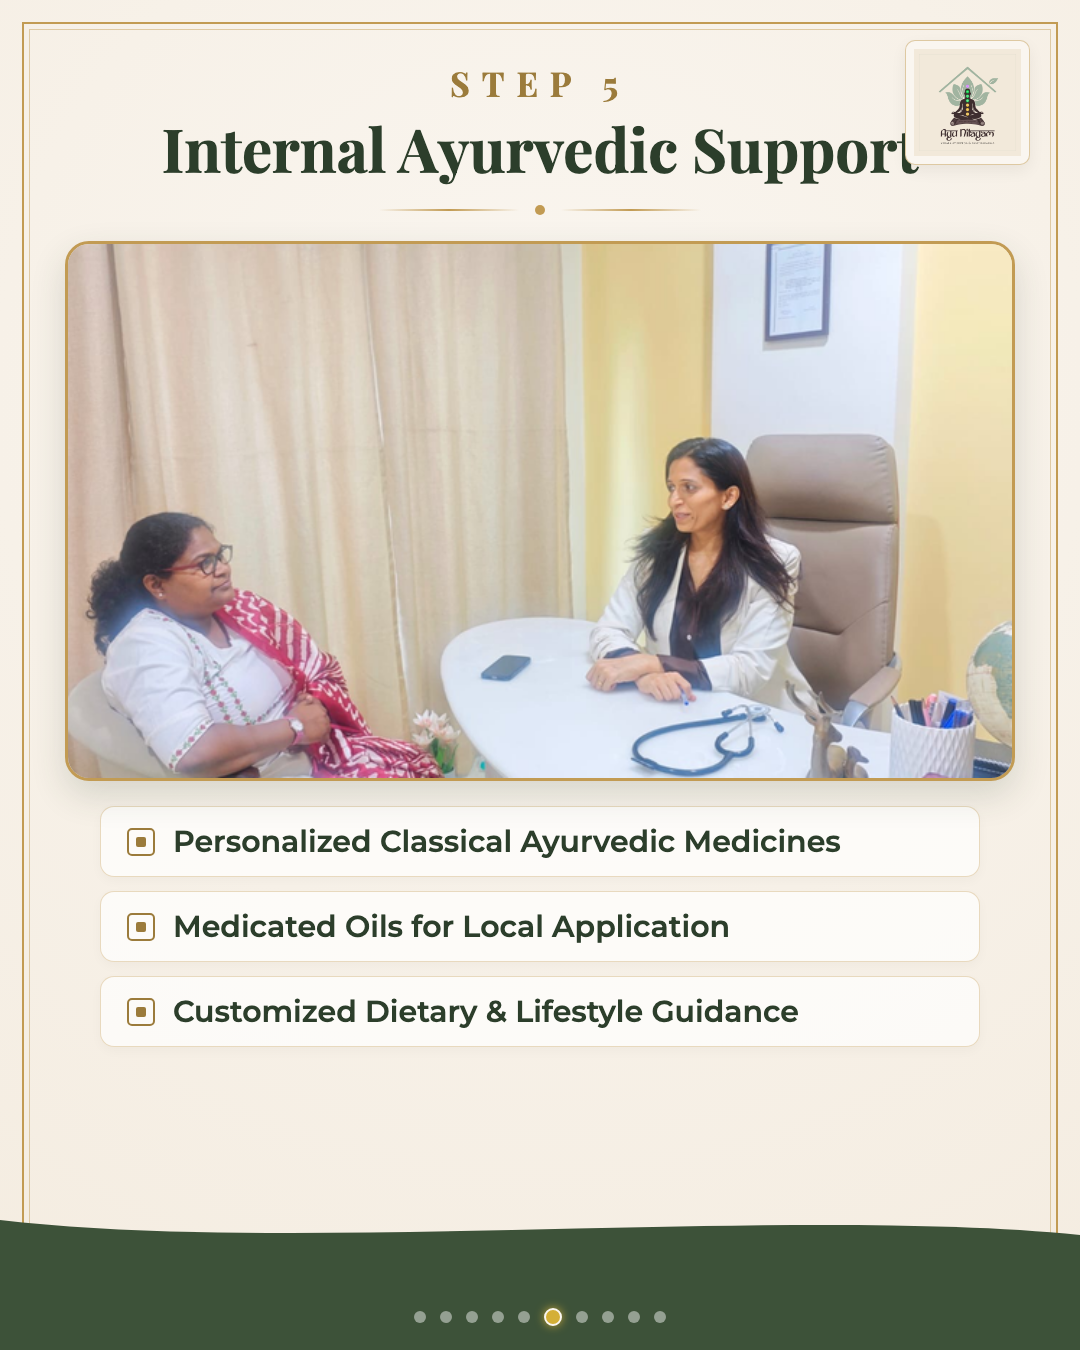
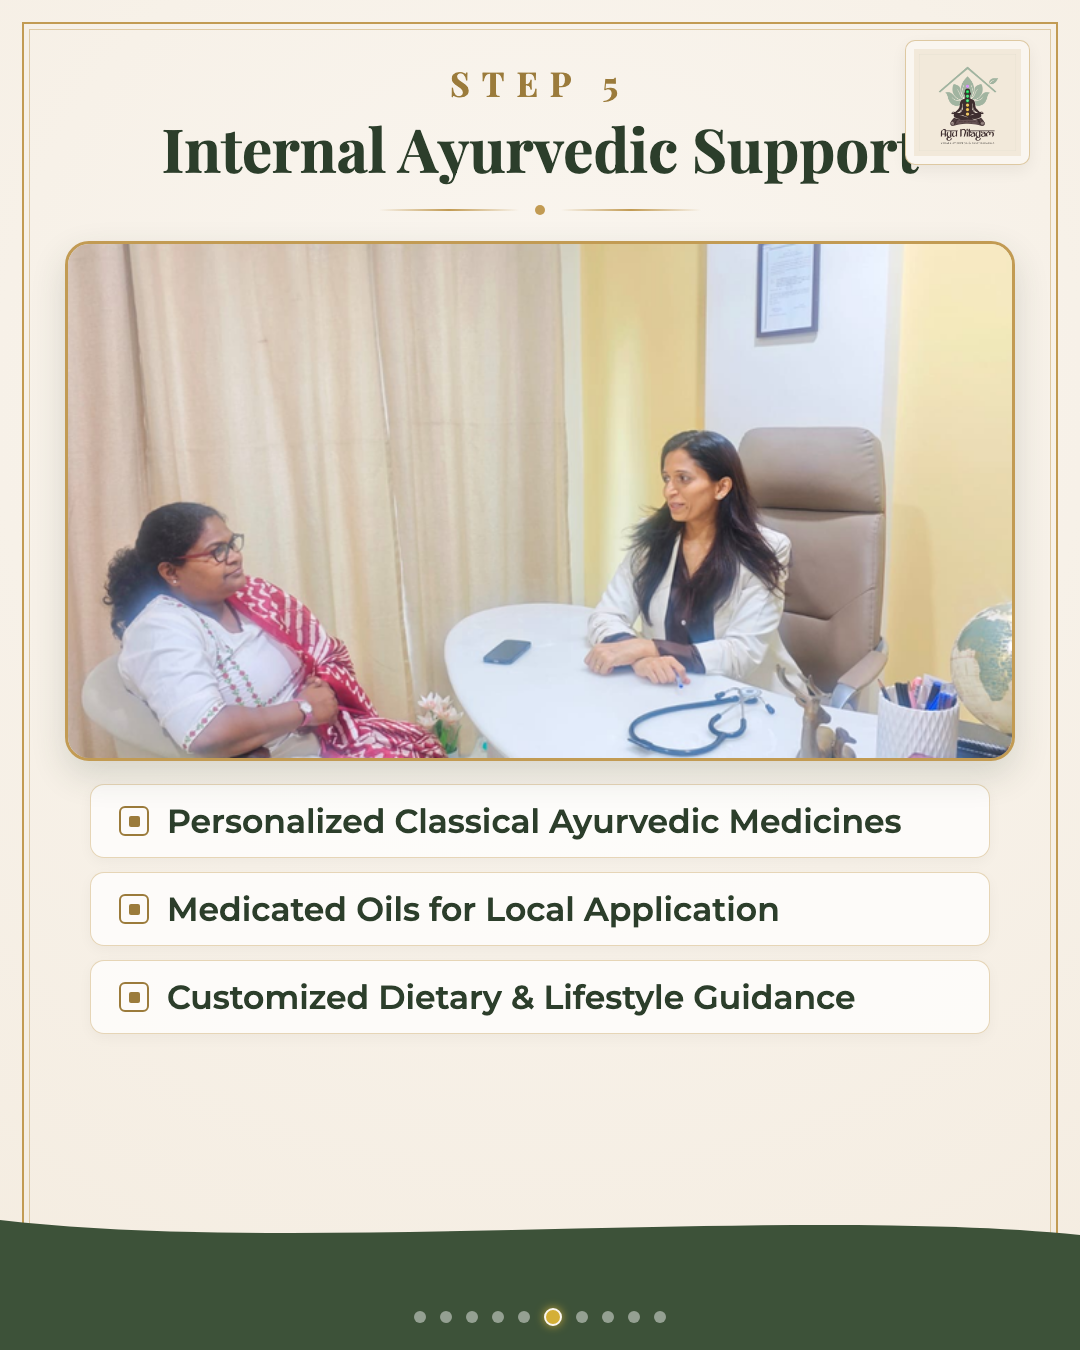
Increase description and rectangular box text sizes across Slides 1 to 8

Changed region(s): [[0.0611, 0.1867, 0.9472, 0.7778]]

diff --git a/html/slides.html b/html/slides.html
@@ -179,7 +179,7 @@
     border-radius: 24px;
     overflow: hidden;
     box-shadow: 0 14px 35px rgba(44, 62, 43, 0.16);
-    margin: 10px 0 20px 0;
+    margin: 10px 0 18px 0;
     background-color: #EFE8DC;
     display: flex;
     justify-content: center;
@@ -188,10 +188,10 @@
   }
 
   .photo-frame.photo-height-lg {
-    height: 540px;
+    height: 520px;
   }
   .photo-frame.photo-height-xl {
-    height: 580px;
+    height: 560px;
   }
 
   .photo-frame img {
@@ -201,13 +201,13 @@
     display: block;
   }
 
-  /* Content Cards & List Items */
+  /* Content Cards & List Items (INCREASED FONT SIZE & PADDING) */
   .bullet-list {
     display: flex;
     flex-direction: column;
     gap: 14px;
     width: 100%;
-    max-width: 880px;
+    max-width: 900px;
     margin-top: 5px;
   }
 
@@ -215,20 +215,20 @@
     display: flex;
     align-items: center;
     gap: 18px;
-    font-size: 30px;
+    font-size: 33px; /* INCREASED LARGER TEXT SIZE */
     color: #2C3E2B;
     font-weight: 600;
-    background: rgba(255, 255, 255, 0.7);
-    padding: 16px 26px;
+    background: rgba(255, 255, 255, 0.75);
+    padding: 16px 28px;
     border-radius: 14px;
-    border: 1.5px solid rgba(194, 155, 83, 0.35);
-    box-shadow: 0 4px 12px rgba(0,0,0,0.03);
+    border: 1.5px solid rgba(194, 155, 83, 0.4);
+    box-shadow: 0 4px 14px rgba(0,0,0,0.04);
   }
 
   .bullet-icon {
-    width: 28px;
-    height: 28px;
-    border-radius: 5px;
+    width: 30px;
+    height: 30px;
+    border-radius: 6px;
     border: 2.5px solid #9B7B3B;
     display: flex;
     align-items: center;
@@ -237,8 +237,8 @@
   }
   .bullet-icon::after {
     content: '';
-    width: 10px;
-    height: 10px;
+    width: 11px;
+    height: 11px;
     background-color: #9B7B3B;
     border-radius: 2px;
   }
@@ -248,19 +248,19 @@
     flex-wrap: wrap;
     justify-content: center;
     gap: 16px;
-    max-width: 900px;
+    max-width: 920px;
     margin: 15px 0;
   }
 
   .pill-item {
-    font-size: 28px;
+    font-size: 32px; /* INCREASED LARGER PILL TEXT */
     font-weight: 700;
     color: #2C3E2B;
-    background: rgba(255, 255, 255, 0.75);
+    background: rgba(255, 255, 255, 0.8);
     border: 2px solid #C29B53;
-    padding: 14px 32px;
+    padding: 15px 34px;
     border-radius: 40px;
-    box-shadow: 0 4px 14px rgba(0,0,0,0.04);
+    box-shadow: 0 4px 14px rgba(0,0,0,0.05);
     display: flex;
     align-items: center;
     gap: 12px;
@@ -268,17 +268,17 @@
   .pill-item::before {
     content: '✦';
     color: #9B7B3B;
-    font-size: 20px;
+    font-size: 22px;
   }
 
   .focused-description {
     font-family: 'Montserrat', sans-serif;
-    font-size: 31px;
-    line-height: 1.55;
-    color: #384536;
+    font-size: 36px; /* INCREASED LARGER DESCRIPTION TEXT */
+    line-height: 1.5;
+    color: #2C3E2B;
     text-align: center;
-    max-width: 920px;
-    font-weight: 500;
+    max-width: 940px;
+    font-weight: 600;
     padding: 0 20px;
   }
 
@@ -431,7 +431,7 @@
   </symbol>
 </svg>
 
-<!-- SLIDE 1: COVER (2ND HEADING EXPANDED TO 46px WITH MARGIN-BOTTOM 40px) -->
+<!-- SLIDE 1: COVER (LARGER DESCRIPTION TEXT 38px & 2ND HEADING 46px) -->
 <div class="slide" id="slide-1">
   <div class="slide-frame"></div>
   <svg class="sun-motif"><use href="#sun-shape"/></svg>
@@ -451,12 +451,11 @@
       <div class="line"></div>
     </div>
 
-    <!-- 2ND HEADING LARGER (46px) TO DIFFERENTIATE FROM DESCRIPTION, WITH 40px SPACING BELOW -->
-    <div class="slide-subtitle" style="font-weight: 700; color: #2C3E2B; font-size: 46px; line-height: 1.25; margin-bottom: 40px; max-width: 950px;">
+    <div class="slide-subtitle" style="font-weight: 700; color: #2C3E2B; font-size: 46px; line-height: 1.25; margin-bottom: 35px; max-width: 950px;">
       A Traditional Ayurvedic Spine Restoration Program
     </div>
 
-    <div class="focused-description" style="font-size: 35px; font-weight: 500; line-height: 1.5; color: #384536; max-width: 940px;">
+    <div class="focused-description" style="font-size: 38px; font-weight: 600; line-height: 1.5; max-width: 940px;">
       A structured, personalized approach to help improve spinal health, mobility, and overall function through classical Ayurvedic principles and rehabilitation.
     </div>
   </div>
@@ -479,7 +478,7 @@
 </div>
 
 
-<!-- SLIDE 2: STEP 1 - DETAILED ASSESSMENT -->
+<!-- SLIDE 2: STEP 1 - DETAILED ASSESSMENT (BULLET TEXT 33px) -->
 <div class="slide" id="slide-2">
   <div class="slide-frame"></div>
   <div class="top-right-logo"><img src="../logo.jpeg" alt="Logo"></div>
@@ -496,7 +495,7 @@
 
     <div class="slide-subtitle">Every treatment begins with understanding your unique condition.</div>
 
-    <div class="photo-frame" style="height: 510px;">
+    <div class="photo-frame" style="height: 480px;">
       <img src="../extracted_photos/clean_photo_02.png" alt="Assessment Photo">
     </div>
 
@@ -522,7 +521,7 @@
 </div>
 
 
-<!-- SLIDE 3: STEP 2 - PERSONALIZED CORRECTION -->
+<!-- SLIDE 3: STEP 2 - PERSONALIZED CORRECTION (DESCRIPTION TEXT 36px) -->
 <div class="slide" id="slide-3">
   <div class="slide-frame"></div>
   <div class="top-right-logo"><img src="../logo.jpeg" alt="Logo"></div>
@@ -541,7 +540,7 @@
       <img src="../extracted_photos/clean_photo_03.png" alt="Spinal Correction Photo">
     </div>
 
-    <div class="focused-description" style="margin-top: 15px;">
+    <div class="focused-description" style="margin-top: 15px; font-size: 36px;">
       Gentle corrective techniques are performed based on your clinical evaluation to restore natural spinal alignment, improve mobility, and relieve nerve pressure.
     </div>
   </div>
@@ -561,7 +560,7 @@
 </div>
 
 
-<!-- SLIDE 4: STEP 3 - AYURVEDIC LEPANA THERAPY -->
+<!-- SLIDE 4: STEP 3 - AYURVEDIC LEPANA THERAPY (DESCRIPTION TEXT 36px) -->
 <div class="slide" id="slide-4">
   <div class="slide-frame"></div>
   <div class="top-right-logo"><img src="../logo.jpeg" alt="Logo"></div>
@@ -580,7 +579,7 @@
       <img src="../extracted_photos/clean_photo_04.png" alt="Lepana Therapy Photo">
     </div>
 
-    <div class="focused-description" style="margin-top: 15px;">
+    <div class="focused-description" style="margin-top: 15px; font-size: 36px;">
       A specially formulated herbal Lepana application designed to penetrate deep tissue layers, reduce localized inflammation, ease muscle stiffness, and support healing.
     </div>
   </div>
@@ -600,7 +599,7 @@
 </div>
 
 
-<!-- SLIDE 5: STEP 4 - PANCHAKARMA SUPPORT -->
+<!-- SLIDE 5: STEP 4 - PANCHAKARMA SUPPORT (PILL TEXT 32px) -->
 <div class="slide" id="slide-5">
   <div class="slide-frame"></div>
   <div class="top-right-logo"><img src="../logo.jpeg" alt="Logo"></div>
@@ -615,7 +614,7 @@
       <div class="line"></div>
     </div>
 
-    <div class="slide-subtitle" style="margin-bottom: 14px;">Targeted therapies advised strictly according to clinical need:</div>
+    <div class="slide-subtitle" style="margin-bottom: 12px;">Targeted therapies advised strictly according to clinical need:</div>
 
     <div class="photo-frame photo-height-lg">
       <img src="../extracted_photos/clean_photo_05.png" alt="Panchakarma Photo">
@@ -645,7 +644,7 @@
 </div>
 
 
-<!-- SLIDE 6: STEP 5 - INTERNAL AYURVEDIC SUPPORT -->
+<!-- SLIDE 6: STEP 5 - INTERNAL AYURVEDIC SUPPORT (BULLET TEXT 33px) -->
 <div class="slide" id="slide-6">
   <div class="slide-frame"></div>
   <div class="top-right-logo"><img src="../logo.jpeg" alt="Logo"></div>
@@ -686,7 +685,7 @@
 </div>
 
 
-<!-- SLIDE 7: STEP 6 - REHABILITATION -->
+<!-- SLIDE 7: STEP 6 - REHABILITATION (BULLET TEXT 33px) -->
 <div class="slide" id="slide-7">
   <div class="slide-frame"></div>
   <div class="top-right-logo"><img src="../logo.jpeg" alt="Logo"></div>
@@ -701,7 +700,7 @@
       <div class="line"></div>
     </div>
 
-    <div class="slide-subtitle" style="margin-bottom: 14px;">Restoring natural movement and long-term strength:</div>
+    <div class="slide-subtitle" style="margin-bottom: 12px;">Restoring natural movement and long-term strength:</div>
 
     <div class="photo-frame photo-height-lg">
       <img src="../extracted_photos/clean_photo_07.png" alt="Rehabilitation Photo">
@@ -729,7 +728,7 @@
 </div>
 
 
-<!-- SLIDE 8: RECOVERY PRECAUTIONS -->
+<!-- SLIDE 8: RECOVERY PRECAUTIONS (BULLET TEXT 31px & PHOTO HEIGHT 450px) -->
 <div class="slide" id="slide-8">
   <div class="slide-frame"></div>
   <div class="top-right-logo"><img src="../logo.jpeg" alt="Logo"></div>
@@ -744,17 +743,17 @@
       <div class="line"></div>
     </div>
 
-    <div class="slide-subtitle" style="margin-bottom: 12px;">Essential precautions for smooth, lasting healing:</div>
+    <div class="slide-subtitle" style="margin-bottom: 10px;">Essential precautions for smooth, lasting healing:</div>
 
-    <div class="photo-frame" style="height: 470px;">
+    <div class="photo-frame" style="height: 450px;">
       <img src="../extracted_photos/clean_photo_08.png" alt="Recovery Care Photo">
     </div>
 
     <div class="bullet-list" style="gap: 12px;">
-      <div class="bullet-item" style="padding: 14px 24px; font-size: 28px;"><div class="bullet-icon"></div> Avoid heavy lifting & strenuous strain</div>
-      <div class="bullet-item" style="padding: 14px 24px; font-size: 28px;"><div class="bullet-icon"></div> Limit excessive forward bending or twisting</div>
-      <div class="bullet-item" style="padding: 14px 24px; font-size: 28px;"><div class="bullet-icon"></div> Reduce prolonged continuous sitting</div>
-      <div class="bullet-item" style="padding: 14px 24px; font-size: 28px;"><div class="bullet-icon"></div> Minimize long-distance travel during therapy</div>
+      <div class="bullet-item" style="padding: 15px 26px; font-size: 31px;"><div class="bullet-icon"></div> Avoid heavy lifting & strenuous strain</div>
+      <div class="bullet-item" style="padding: 15px 26px; font-size: 31px;"><div class="bullet-icon"></div> Limit excessive forward bending or twisting</div>
+      <div class="bullet-item" style="padding: 15px 26px; font-size: 31px;"><div class="bullet-icon"></div> Reduce prolonged continuous sitting</div>
+      <div class="bullet-item" style="padding: 15px 26px; font-size: 31px;"><div class="bullet-icon"></div> Minimize long-distance travel during therapy</div>
     </div>
   </div>
 
